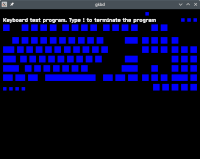
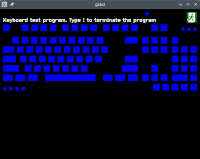
Update homepage

Changed region(s): [[0.9, 0.0755, 0.99, 0.2013]]

diff --git a/prg/gkbd.htm b/prg/gkbd.htm
@@ -45,6 +45,7 @@ $ <span class="keywd">include</span> <span class="stri">"<a class="lib" href="..
   <span class="keywd">include</span> <span class="stri">"<a class="lib" href="../lib/keydescr.htm">keydescr.s7i</a>"</span>;
   <span class="keywd">include</span> <span class="stri">"<a class="lib" href="../lib/float.htm">float.s7i</a>"</span>;
   <span class="keywd">include</span> <span class="stri">"<a class="lib" href="../lib/draw.htm">draw.s7i</a>"</span>;
+  <span class="keywd">include</span> <span class="stri">"<a class="lib" href="../lib/pic32.htm">pic32.s7i</a>"</span>;
   <span class="keywd">include</span> <span class="stri">"<a class="lib" href="../lib/time.htm">time.s7i</a>"</span>;
   <span class="keywd">include</span> <span class="stri">"<a class="lib" href="../lib/duration.htm">duration.s7i</a>"</span>;
   <span class="keywd">include</span> <span class="stri">"<a class="lib" href="../lib/console.htm">console.s7i</a>"</span>;
@@ -54,6 +55,11 @@ $ <span class="keywd">include</span> <span class="stri">"<a class="lib" href="..
 
 
 <span class="keywd">const</span> <span class="type">integer</span>: xSpeed <span class="keywd">is</span> 1;
+
+<span class="keywd">const</span> <span class="type">integer</span>: EXIT_BUTTON_XPOS <span class="keywd">is</span> 598;
+<span class="keywd">const</span> <span class="type">integer</span>: EXIT_BUTTON_YPOS <span class="keywd">is</span> 10;
+
+<span class="keywd">const</span> <span class="type">PRIMITIVE_WINDOW</span>: exitPixmap <span class="keywd">is</span> createPixmap(exit_pic, 1, black);
 
 <span class="keywd">const</span> <span class="type">array</span> <span class="type">[</span>boolean] <span class="type">color</span>: buttonColor <span class="keywd">is</span> [boolean] (light_blue, light_red);
 
@@ -85,9 +91,9 @@ $ <span class="keywd">include</span> <span class="stri">"<a class="lib" href="..
       <span class="keywd">when</span> {KEY_CONTROL}:        rect( 30, 250, 10, 10, keyColor);
       <span class="keywd">when</span> {KEY_SUPER}:          rect( 50, 250, 10, 10, keyColor);
       <span class="keywd">when</span> {KEY_ALT}:            rect( 70, 250, 10, 10, keyColor);
-      <span class="keywd">when</span> {KEY_NUM_LOCK_ON}:    rect(580,  30, 10, 10, keyColor);
-      <span class="keywd">when</span> {KEY_SHIFT_LOCK_ON}:  rect(600,  30, 10, 10, keyColor);
-      <span class="keywd">when</span> {KEY_SCROLL_LOCK_ON}: rect(620,  30, 10, 10, keyColor);
+      <span class="keywd">when</span> {KEY_NUM_LOCK_ON}:    rect(580,  60, 10, 10, keyColor);
+      <span class="keywd">when</span> {KEY_SHIFT_LOCK_ON}:  rect(600,  60, 10, 10, keyColor);
+      <span class="keywd">when</span> {KEY_SCROLL_LOCK_ON}: rect(620,  60, 10, 10, keyColor);
 
       <span class="keywd">when</span> {KEY_ESC}:            rect( 10,  50, 20, 20, keyColor);
       <span class="keywd">when</span> {KEY_F1}:             rect( 70,  50, 20, 20, keyColor);
@@ -218,6 +224,7 @@ $ <span class="keywd">include</span> <span class="stri">"<a class="lib" href="..
     logFile := STD_CONSOLE;
     OUT := openTee(OUT, logFile);
     KEYBOARD := GRAPH_KEYBOARD;
+    put(curr_win, EXIT_BUTTON_XPOS, EXIT_BUTTON_YPOS, exitPixmap);
     flushGraphic;
     <span class="keywd">repeat</span>
       waitTime := time(NOW) + 30000 . MICRO_SECONDS;
@@ -337,7 +344,7 @@ $ <span class="keywd">include</span> <span class="stri">"<a class="lib" href="..
       checkKey(keyActive, KEY_MOUSE2);
       checkKey(keyActive, KEY_MOUSE3);
 
-      <span class="keywd">if</span> xPos > 620 <span class="keywd">then</span>
+      <span class="keywd">if</span> xPos > 578 <span class="keywd">then</span>
         xIncr := -xSpeed;
       <span class="keywd">elsif</span> xPos &lt; 10 <span class="keywd">then</span>
         xIncr := xSpeed;
@@ -350,7 +357,15 @@ $ <span class="keywd">include</span> <span class="stri">"<a class="lib" href="..
       xPos +:= xIncr;
       rect(xPos, 10, 10, 10, buttonColor[buttonPressed(KEYBOARD, ch)]);
       flushGraphic;
-      await(waitTime);
+      <span class="keywd">if</span> ch = KEY_MOUSE1 <span class="op">and</span>
+          clickedXPos(KEYBOARD) >= EXIT_BUTTON_XPOS <span class="op">and</span>
+          clickedXPos(KEYBOARD) &lt;= EXIT_BUTTON_XPOS + width(exitPixmap) <span class="op">and</span>
+          clickedYPos(KEYBOARD) >= EXIT_BUTTON_YPOS <span class="op">and</span>
+          clickedYPos(KEYBOARD) &lt;= EXIT_BUTTON_YPOS + height(exitPixmap) <span class="keywd">then</span>
+        ch := <span class="stri">'!'</span>;
+      <span class="keywd">else</span>
+        await(waitTime);
+      <span class="keywd">end</span> <span class="keywd">if</span>;
     <span class="keywd">until</span> ch = <span class="stri">'!'</span>;
   <span class="keywd">end</span> <span class="keywd">func</span>;
 </pre>

diff --git a/scrshots/gkbd.htm b/scrshots/gkbd.htm
@@ -137,6 +137,10 @@ near the top:
 </p><pre class="indent">
 <b>Keyboard test program. Type ! to terminate the program</b>
 </pre><p>
+As an alternative the program can be terminated by clicking on the exit button:
+</p>
+<img src="../images/exit.png" width="32" height="32" border="0" align="bottom" />
+<p>
 Gkbd logs the keys pressed in the bottom area of the window.
 The log consists of the decimal key number and an optional
 key description. E.g.:
